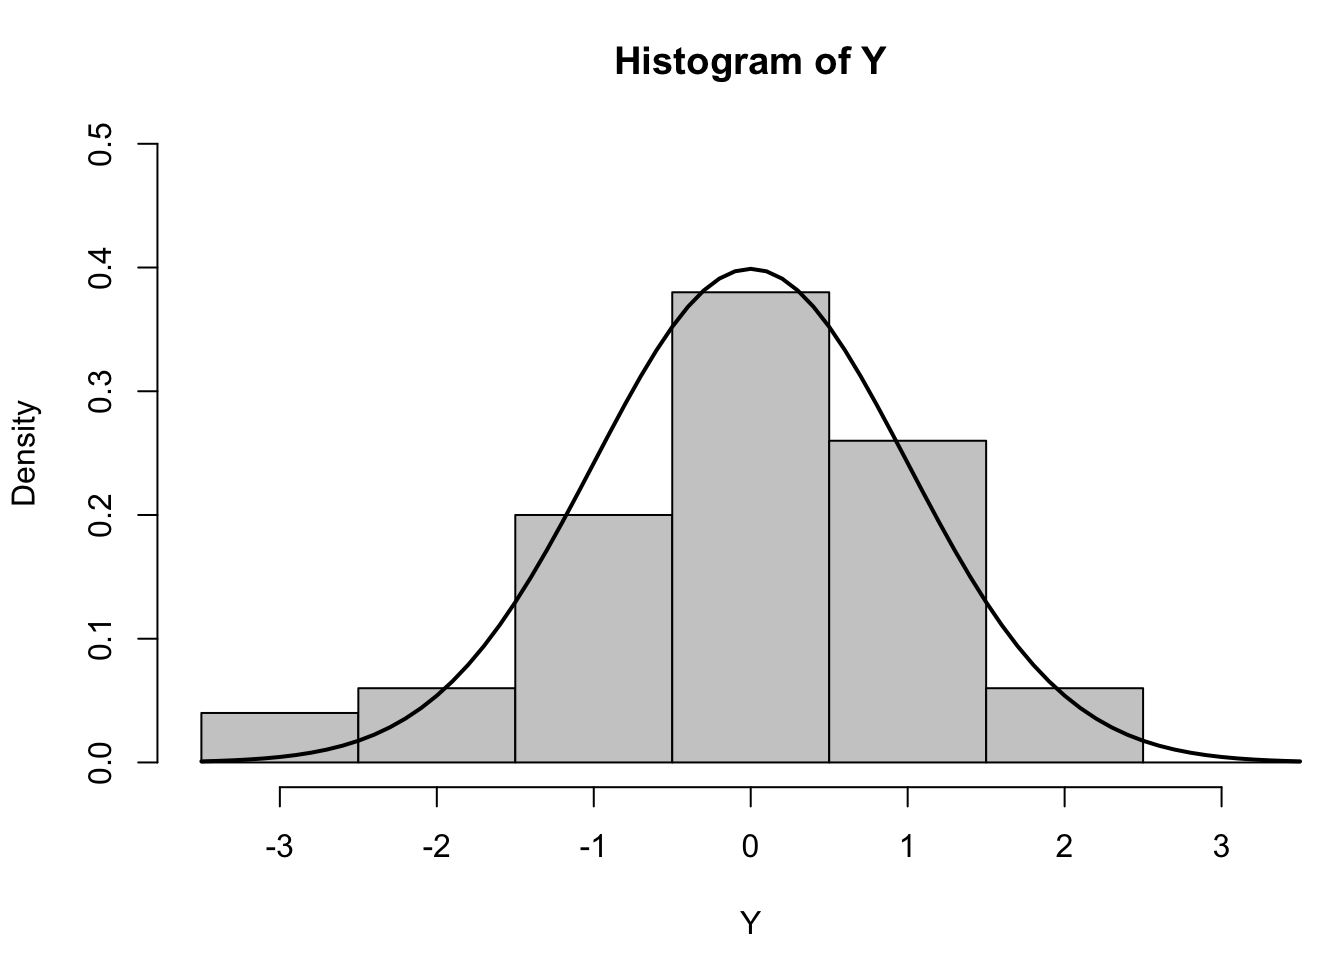
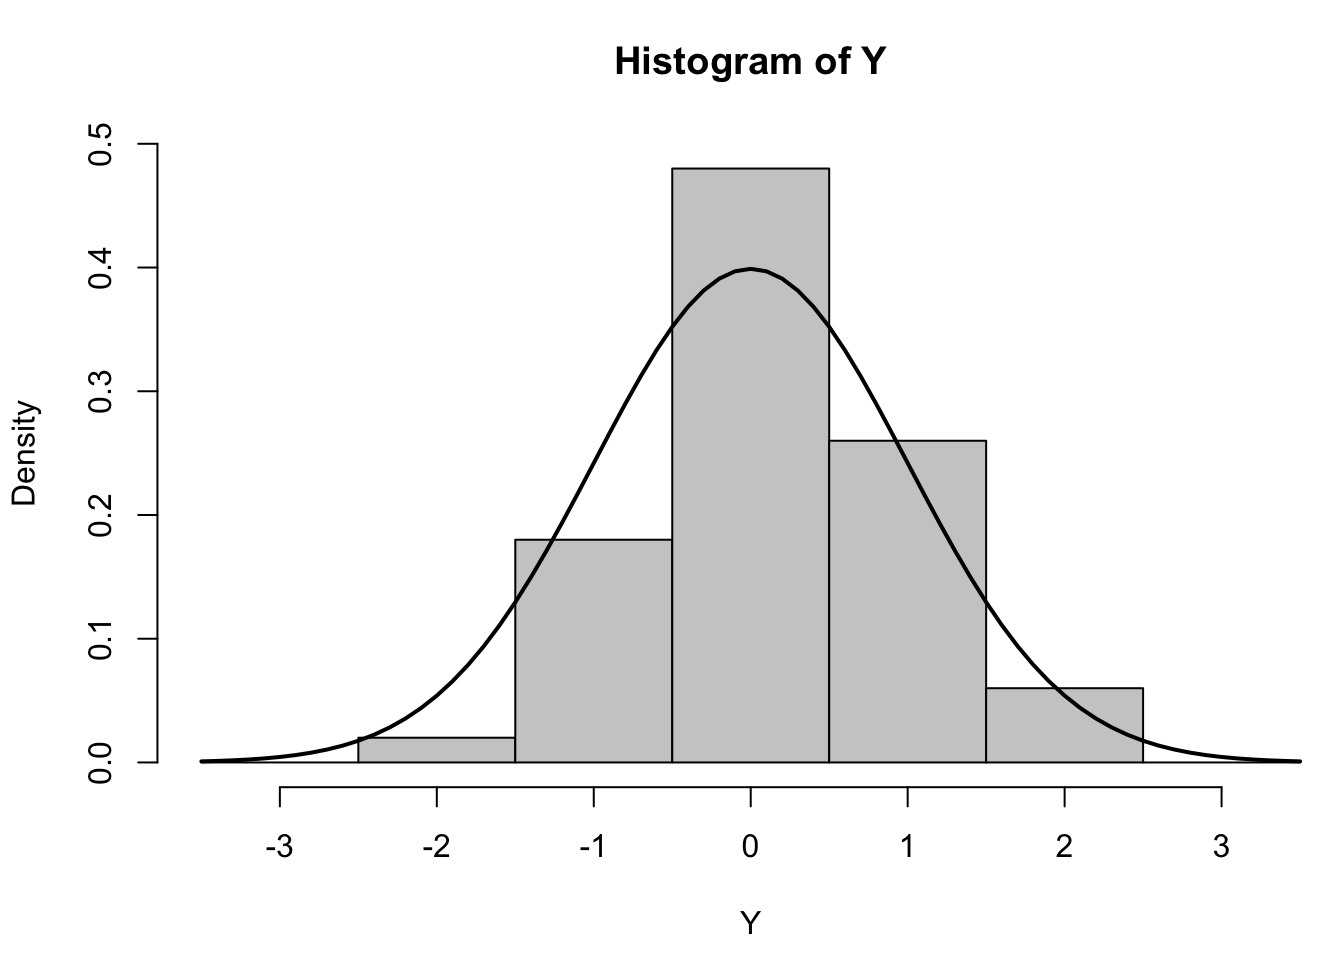
Add files via upload

Changed region(s): [[0.125, 0.7188, 0.4062, 0.8125], [0.5, 0.1562, 0.625, 0.3125], [0.375, 0.5312, 0.5, 0.5625]]

diff --git a/_site/assignment2.html b/_site/assignment2.html
@@ -162,6 +162,10 @@ code span.wa { color: #60a0b0; font-weight: bold; font-style: italic; } /* Warni
     <a class="dropdown-item" href="./assignment3.html">
  <span class="dropdown-text">assignment3</span></a>
   </li>  
+        <li>
+    <a class="dropdown-item" href="./assignment4.html">
+ <span class="dropdown-text">assignment4</span></a>
+  </li>  
     </ul>
   </li>
   <li class="nav-item">
@@ -268,16 +272,16 @@ replace the existing scale.</code></pre>
 <span id="cb4-37"><a href="#cb4-37" aria-hidden="true" tabindex="-1"></a>Y <span class="ot">&lt;-</span> <span class="fu">rnorm</span>(<span class="dv">50</span>)</span>
 <span id="cb4-38"><a href="#cb4-38" aria-hidden="true" tabindex="-1"></a>Y</span></code><button title="Copy to Clipboard" class="code-copy-button"><i class="bi"></i></button></pre></div>
 <div class="cell-output cell-output-stdout">
-<pre><code> [1] -2.930599468 -0.104581923  1.180959808  1.114247859  1.759057260
- [6] -0.392554982  0.859344168  0.129793641  0.409714727  0.134085269
-[11]  0.209221486 -1.180024719 -0.675705191  1.499414598 -0.556294635
-[16] -0.231901721  0.272749278  0.902548391 -2.910484056 -1.598697593
-[21]  0.013686587 -0.319294519  1.410476143  0.387661889 -0.003494461
-[26]  1.004962729  0.145975204  0.417241885  0.274298386 -1.623192982
-[31] -0.031095377 -0.784244420  0.532912106 -1.679198739 -0.567627578
-[36] -0.683726529  2.189800092 -1.454726008  0.467731694 -0.620557904
-[41]  0.507292236  1.571176521  1.346832546  0.724075859  0.035239417
-[46]  0.649754887 -0.779951133  0.738018725 -0.225139508 -1.416261014</code></pre>
+<pre><code> [1]  0.9768441198 -0.9585721508 -0.9455826518 -0.3574642303 -0.0004143605
+ [6]  1.0983303338 -0.2241016182  0.0654586488  0.8151788939 -0.1063820170
+[11]  1.4237846890 -0.1731051103 -1.6850865928 -0.4252095817  0.3996838143
+[16]  0.8939561818  1.0557788851  1.7117448723 -0.8845760833  0.7970195194
+[21]  0.4905996029  1.7800035515  1.2451391479  0.3662848881 -0.8395552968
+[26]  1.7490581571 -1.3840918535 -0.1677534485  0.0888641556  1.1700248799
+[31]  0.2829032834 -0.1466082694  0.8293812421  1.1984831025 -0.1456608497
+[36] -0.3756615167 -0.4871221795 -0.3994592022  0.6717459101  0.3374812094
+[41]  1.0849036492 -0.3735041163 -0.4710233865  0.4718414841 -1.2004473120
+[46] -0.5993268559 -0.7773011018  0.1643375786 -0.2708187383 -0.5691073965</code></pre>
 </div>
 <div class="cell-output-display">
 <p><img src="assignment2_files/figure-html/unnamed-chunk-3-1.png" class="img-fluid" width="672"></p>

diff --git a/_site/assignment1.html b/_site/assignment1.html
@@ -162,6 +162,10 @@ code span.wa { color: #60a0b0; font-weight: bold; font-style: italic; } /* Warni
     <a class="dropdown-item" href="./assignment3.html">
  <span class="dropdown-text">assignment3</span></a>
   </li>  
+        <li>
+    <a class="dropdown-item" href="./assignment4.html">
+ <span class="dropdown-text">assignment4</span></a>
+  </li>  
     </ul>
   </li>
   <li class="nav-item">

diff --git a/_site/about.html b/_site/about.html
@@ -99,6 +99,10 @@ ul.task-list{list-style: none;}
     <a class="dropdown-item" href="./assignment3.html">
  <span class="dropdown-text">assignment3</span></a>
   </li>  
+        <li>
+    <a class="dropdown-item" href="./assignment4.html">
+ <span class="dropdown-text">assignment4</span></a>
+  </li>  
     </ul>
   </li>
   <li class="nav-item">

diff --git a/_site/assignment3.html b/_site/assignment3.html
@@ -99,6 +99,10 @@ ul.task-list{list-style: none;}
     <a class="dropdown-item" href="./assignment3.html">
  <span class="dropdown-text">assignment3</span></a>
   </li>  
+        <li>
+    <a class="dropdown-item" href="./assignment4.html">
+ <span class="dropdown-text">assignment4</span></a>
+  </li>  
     </ul>
   </li>
   <li class="nav-item">

diff --git a/_site/assignment4.html b/_site/assignment4.html
@@ -99,6 +99,10 @@ ul.task-list{list-style: none;}
     <a class="dropdown-item" href="./assignment3.html">
  <span class="dropdown-text">assignment3</span></a>
   </li>  
+        <li>
+    <a class="dropdown-item" href="./assignment4.html">
+ <span class="dropdown-text">assignment4</span></a>
+  </li>  
     </ul>
   </li>
   <li class="nav-item">

diff --git a/_site/index.html b/_site/index.html
@@ -99,6 +99,10 @@ ul.task-list{list-style: none;}
     <a class="dropdown-item" href="./assignment3.html">
  <span class="dropdown-text">assignment3</span></a>
   </li>  
+        <li>
+    <a class="dropdown-item" href="./assignment4.html">
+ <span class="dropdown-text">assignment4</span></a>
+  </li>  
     </ul>
   </li>
   <li class="nav-item">

diff --git a/_site/project.html b/_site/project.html
@@ -99,6 +99,10 @@ ul.task-list{list-style: none;}
     <a class="dropdown-item" href="./assignment3.html">
  <span class="dropdown-text">assignment3</span></a>
   </li>  
+        <li>
+    <a class="dropdown-item" href="./assignment4.html">
+ <span class="dropdown-text">assignment4</span></a>
+  </li>  
     </ul>
   </li>
   <li class="nav-item">

diff --git a/_site/research.html b/_site/research.html
@@ -99,6 +99,10 @@ ul.task-list{list-style: none;}
     <a class="dropdown-item" href="./assignment3.html">
  <span class="dropdown-text">assignment3</span></a>
   </li>  
+        <li>
+    <a class="dropdown-item" href="./assignment4.html">
+ <span class="dropdown-text">assignment4</span></a>
+  </li>  
     </ul>
   </li>
   <li class="nav-item">
